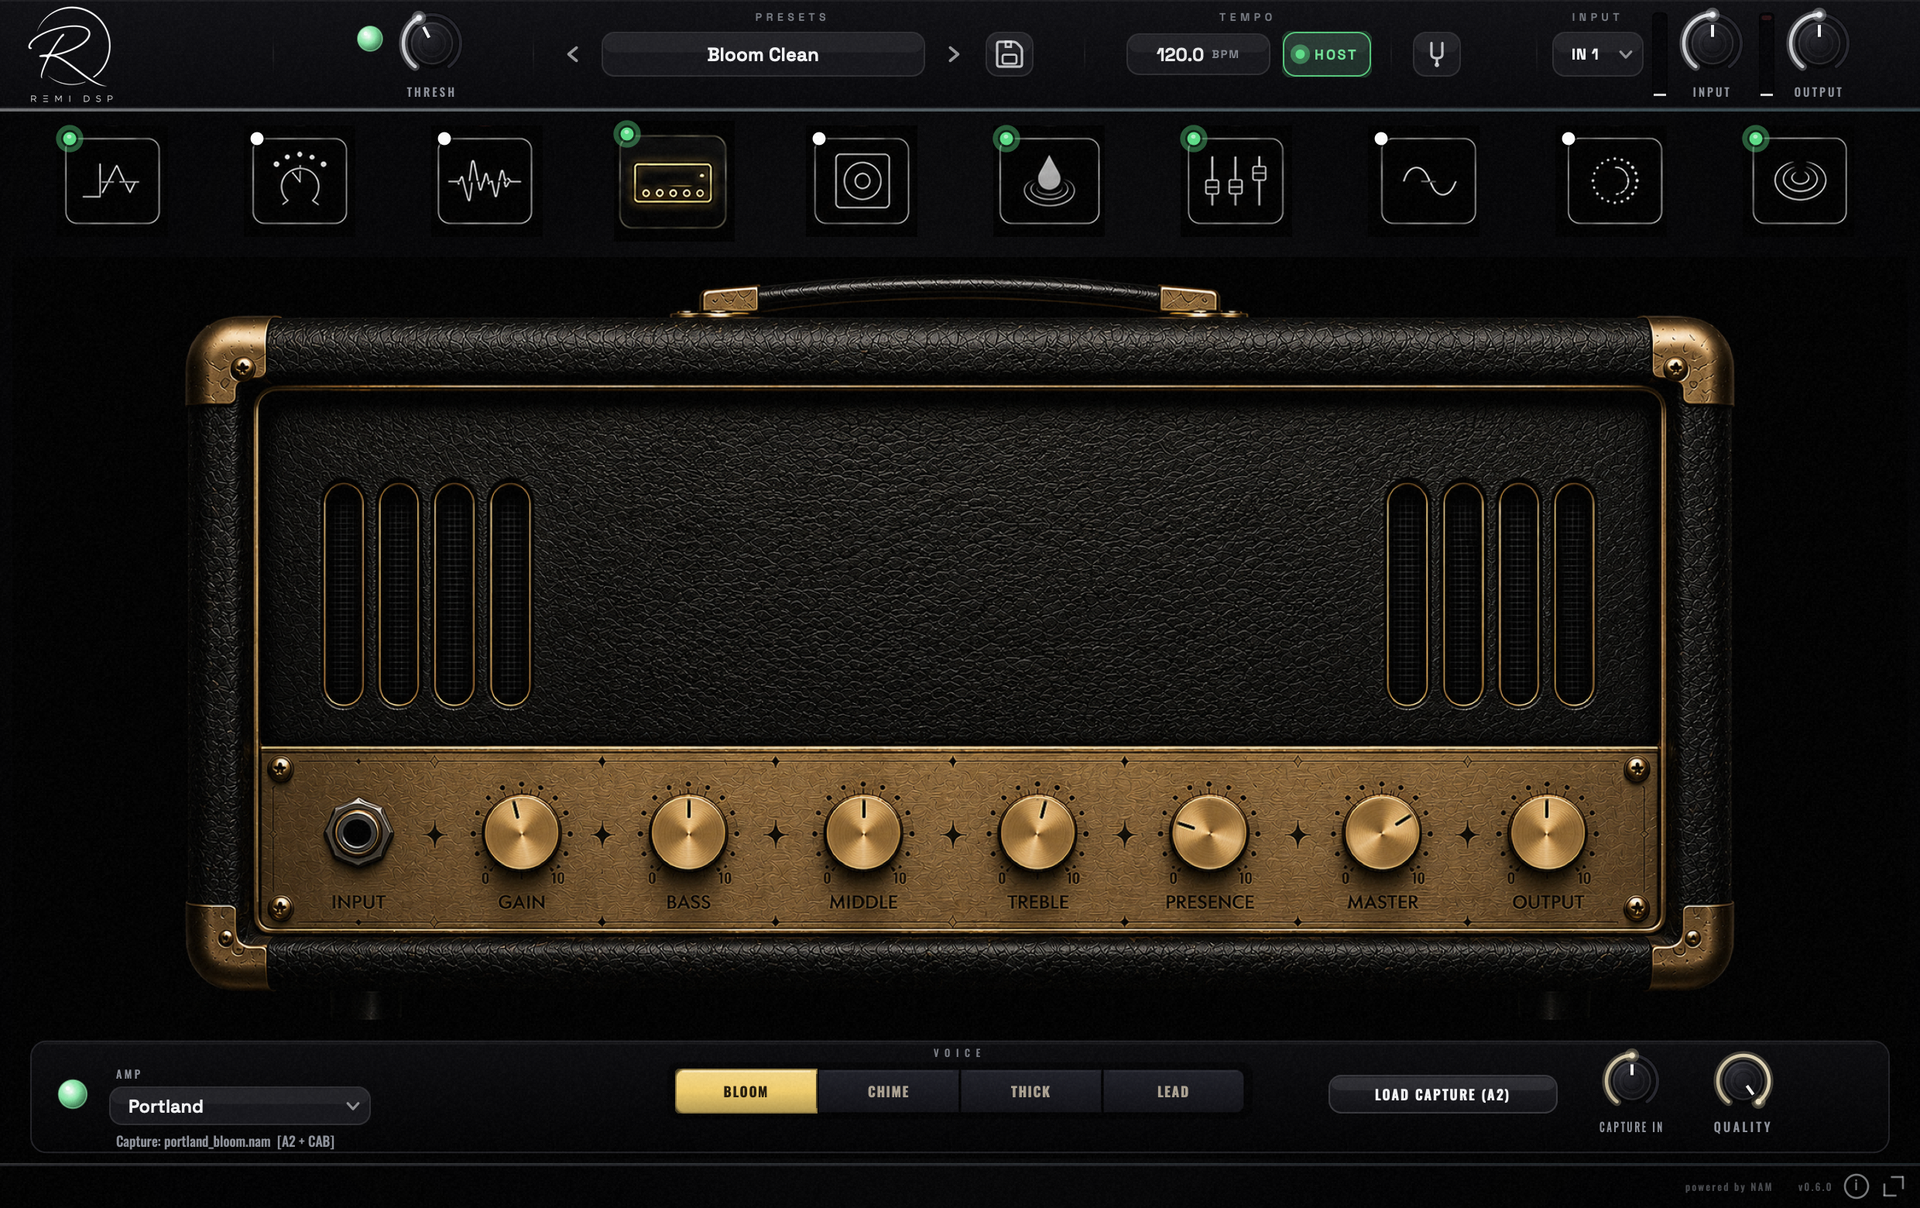
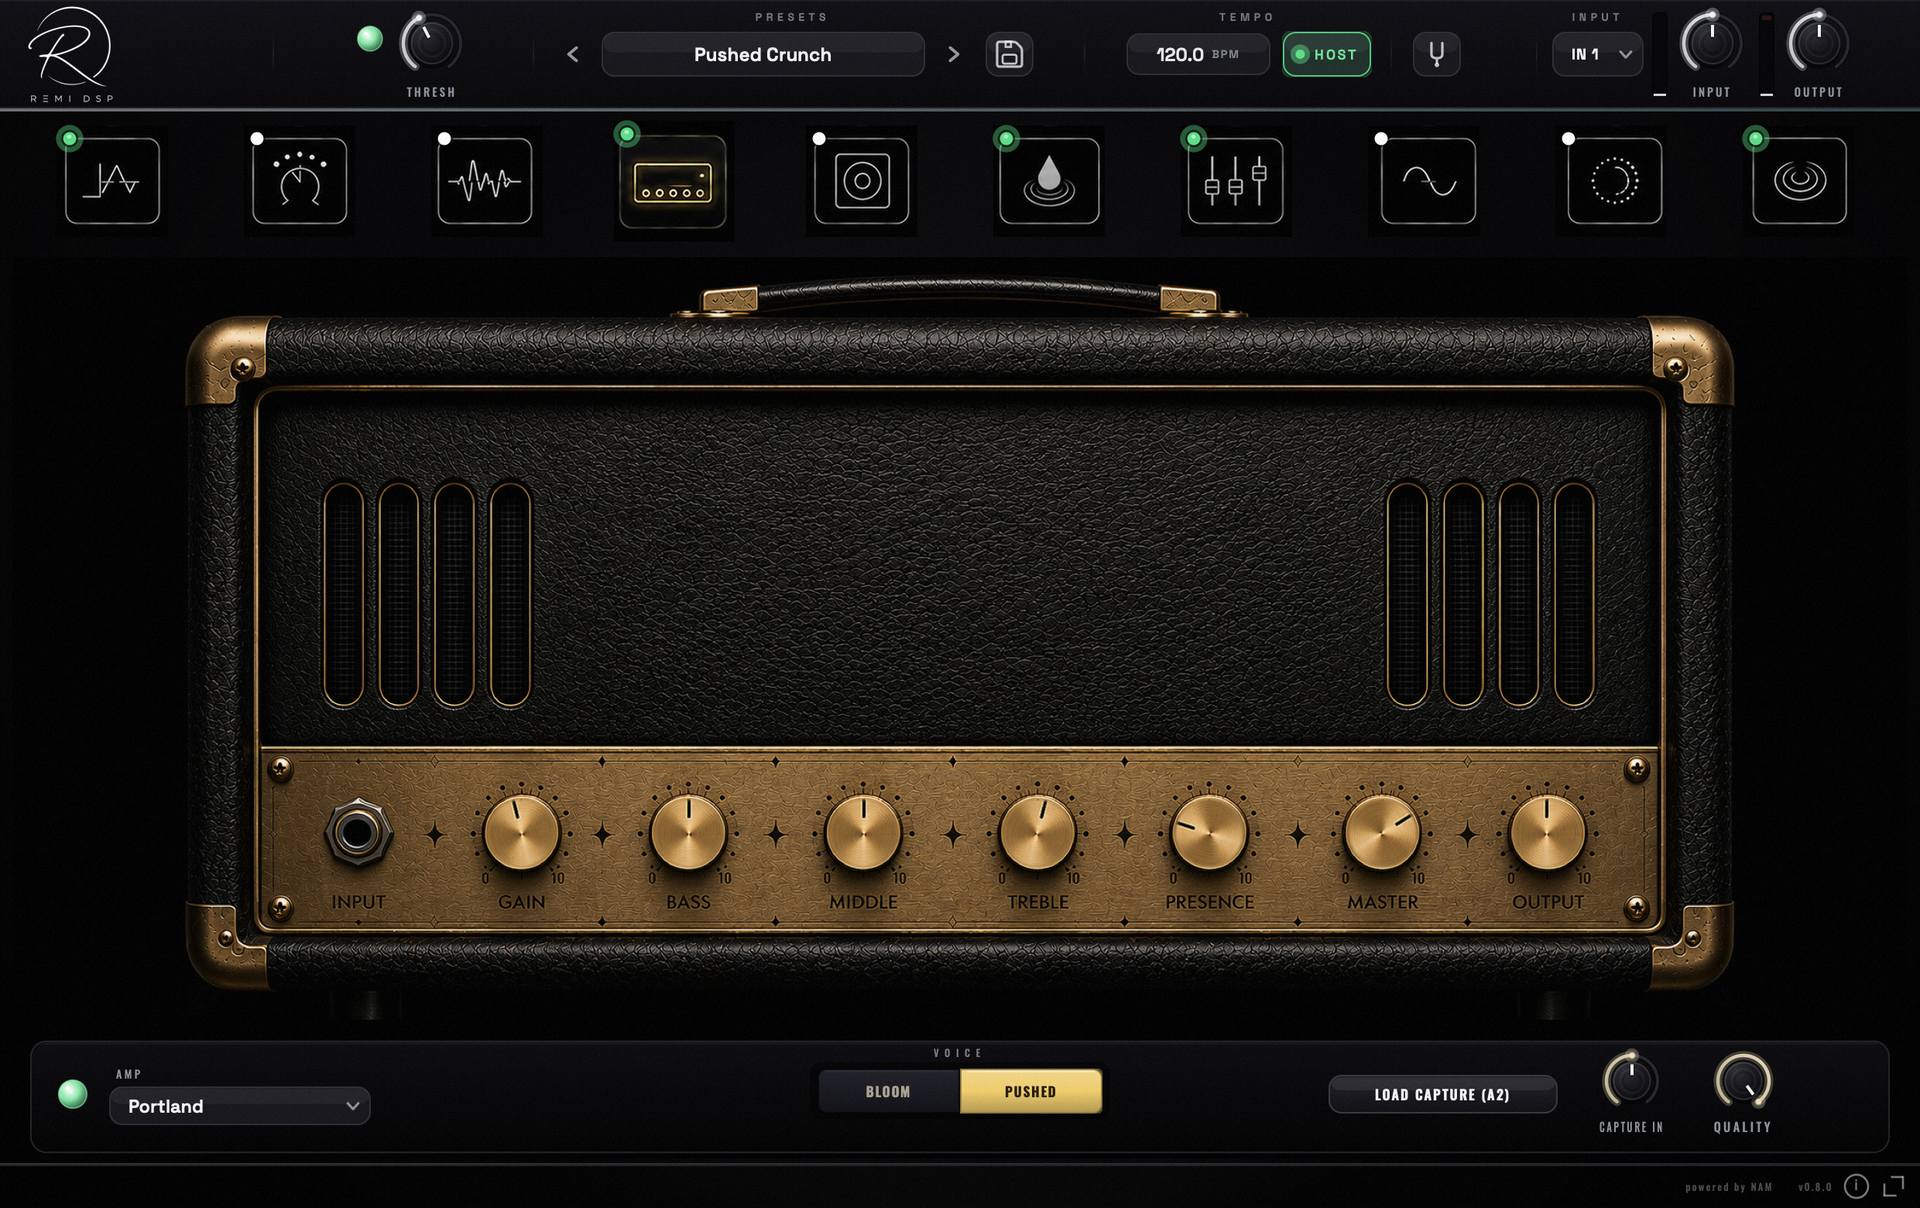
Maine 0.8.0: six voices, seven captures, and a drive with a treble and a bass
The lineup claims were counting voices that no longer ship. Portland is down to
Bloom + Pushed and Katahdin to a single Red, so "nine voices / eleven captures"
became six and seven -- in the hero caption, the lineup tally, the amp columns,
the in-the-box list and the JSON-LD feature line. Preset count 20 -> 19.

Both screenshots showed the old build: the amp window on the retired Bloom Clean
patch with CHIME/THICK/LEAD tabs, and the drive pedal with two TONE knobs and a
MODEL dropdown. Reshot on 0.8.0. The pedal print was redrawn at a different
aspect, so that image is now 1920x1128 and its width/height attributes follow.

diff --git a/index.html b/index.html
@@ -74,9 +74,9 @@
       "url": "https://remidsp.com/",
       "image": "https://remidsp.com/assets/img/og-card-portland.jpg",
       "description": "An all-in-one guitar rig: three amplifiers captured from real, mic'd-up rigs, a pedalboard that reorders itself and a studio strip that finishes the job.",
-      "softwareVersion": "0.6.0",
+      "softwareVersion": "0.8.0",
       "featureList": [
-        "Three amplifiers, nine voices, captured from real, mic'd-up rigs",
+        "Three amplifiers, six voices, captured from real, mic'd-up rigs",
         "Ten-slot reorderable pedalboard",
         "Console EQ and FET compressor studio strip",
         "Strobe tuner accurate to a hundredth of a cent",
@@ -194,10 +194,10 @@
       </ul>
       <div class="rig__voices" id="rigVoices">
         <div class="rig__voiceset is-active"><span>CLEAN</span><span>DRIVEN</span><span>MAX</span></div>
-        <div class="rig__voiceset"><span>BLOOM</span><span>CHIME</span><span>THICK</span><span>LEAD</span></div>
-        <div class="rig__voiceset"><span>BLUE</span><span>RED</span></div>
+        <div class="rig__voiceset"><span>BLOOM</span><span>PUSHED</span></div>
+        <div class="rig__voiceset"><span>RED</span></div>
       </div>
-      <p class="rig__cap mono">3&nbsp;AMPS&nbsp;·&nbsp;9&nbsp;VOICES&nbsp;·&nbsp;CAPTURED&nbsp;FROM&nbsp;REAL&nbsp;RIGS</p>
+      <p class="rig__cap mono">3&nbsp;AMPS&nbsp;·&nbsp;6&nbsp;VOICES&nbsp;·&nbsp;CAPTURED&nbsp;FROM&nbsp;REAL&nbsp;RIGS</p>
     </div>
   </div>
 
@@ -241,7 +241,7 @@
       <picture>
         <source srcset="assets/img/amp-window-portland.webp" type="image/webp">
         <img src="assets/img/amp-window-portland.png" width="1920" height="1208" loading="lazy"
-             alt="The Maine plugin window on its Bloom Clean patch — the Portland head in black tolex and gold, the effects chain along the top and the portland_bloom capture loaded below" />
+             alt="The Maine plugin window on its Pushed Crunch patch — the Portland head in black tolex and gold, the effects chain along the top and the Pushed voice selected below" />
       </picture>
       <span class="showcase__glare" aria-hidden="true"></span>
     </div>
@@ -255,8 +255,8 @@
 
 <!-- ░░ 02 · THE AMPLIFIERS — the whole lineup, side by side ░░
      Deliberately NOT a switcher. The hero already does one-at-a-time; this
-     section's whole job is the opposite — every head and all nine voices on
-     screen together, so the "9 voices" claim is shown rather than asserted.
+     section's whole job is the opposite — every head and all six voices on
+     screen together, so the "6 voices" claim is shown rather than asserted.
      Hover solos a column (siblings dim); nothing is ever hidden behind a tab. -->
 <section class="lineup" id="amps" data-bg="#07080b">
   <header class="shead" data-reveal>
@@ -268,7 +268,7 @@
   <div class="lineup__intro">
     <h2 data-reveal>All three.<br>All at once.</h2>
     <p data-reveal style="--d:.08s">
-      Nine voices across three heads, every one captured from a real, mic'd-up rig —
+      Six voices across three heads, every one captured from a real, mic'd-up rig —
       <strong>cab baked in</strong>, ready the moment you plug in.
     </p>
   </div>
@@ -302,13 +302,11 @@
         <span class="ampcol__no led">02</span>
         <h3>Portland</h3>
         <p class="ampcol__tag mono">BRITISH CRUNCH</p>
-        <p class="ampcol__copy">Four voices in one head, from '60s jangle to hot-rodded
-           lead. Turn the voice, swap the stack underneath it.</p>
+        <p class="ampcol__copy">Two voices in one head: the edge of breakup, and a '66
+           JTM45 through a Bluesbreaker with its Alnicos pushed.</p>
         <ul class="ampcol__voices">
           <li><span class="mono">01</span>Bloom</li>
-          <li><span class="mono">02</span>Chime</li>
-          <li><span class="mono">03</span>Thick</li>
-          <li><span class="mono">04</span>Lead</li>
+          <li><span class="mono">02</span>Pushed</li>
         </ul>
       </div>
     </article>
@@ -322,18 +320,18 @@
         <span class="ampcol__no led">03</span>
         <h3>Katahdin</h3>
         <p class="ampcol__tag mono">MODERN HIGH-GAIN</p>
-        <p class="ampcol__copy">Two modern high-gain voices behind one perforated grille.
-           Tight lows, endless sustain — palm mutes that land like a dropped anvil.</p>
+        <p class="ampcol__copy">One modern high-gain voice behind a perforated grille, and
+           it is the right one. Tight lows, endless sustain — palm mutes that land like a
+           dropped anvil.</p>
         <ul class="ampcol__voices">
-          <li><span class="mono">01</span>Blue</li>
-          <li><span class="mono">02</span>Red</li>
+          <li><span class="mono">01</span>Red</li>
         </ul>
       </div>
     </article>
   </div>
 
   <p class="lineup__tally mono" data-reveal>
-    <span class="led">3</span>&nbsp;HEADS&nbsp;&nbsp;·&nbsp;&nbsp;<span class="led">9</span>&nbsp;VOICES&nbsp;&nbsp;·&nbsp;&nbsp;<span class="led">11</span>&nbsp;CAPTURES&nbsp;&nbsp;·&nbsp;&nbsp;ONE&nbsp;WINDOW
+    <span class="led">3</span>&nbsp;HEADS&nbsp;&nbsp;·&nbsp;&nbsp;<span class="led">6</span>&nbsp;VOICES&nbsp;&nbsp;·&nbsp;&nbsp;<span class="led">7</span>&nbsp;CAPTURES&nbsp;&nbsp;·&nbsp;&nbsp;ONE&nbsp;WINDOW
   </p>
 </section>
 
@@ -472,7 +470,7 @@
     <div class="board__viewport">
       <div class="board__track" id="boardTrack">
         <article class="pcard" style="--tint:#d2a43a" data-card>
-          <div class="pcard__img"><img src="assets/img/pedal.webp" width="1920" height="907" loading="lazy" alt="REMI DSP Drive pedal — Victory! gold enclosure" /></div>
+          <div class="pcard__img"><img src="assets/img/pedal.webp" width="1920" height="1128" loading="lazy" alt="REMI DSP Drive pedal — Victory! gold enclosure with drive, treble, bass and level" /></div>
           <div class="pcard__meta">
             <span class="pcard__no led">01</span>
             <h3>Drive</h3>
@@ -734,9 +732,9 @@
       <p class="dcard__req mono">NO ACCOUNT · NO SIGN-UP</p>
       <ul class="dcard__list">
         <li>Standalone, VST3, Audio Unit &amp; AAX</li>
-        <li>3 amps · 9 voices · 11 captures</li>
+        <li>3 amps · 6 voices · 7 captures</li>
         <li>Pedalboard, studio strip &amp; the Sauce finalizer</li>
-        <li>20 usable-tone presets · strobe tuner</li>
+        <li>19 usable-tone presets · strobe tuner</li>
         <li>Runs at 44.1–96&nbsp;kHz</li>
       </ul>
     </article>
